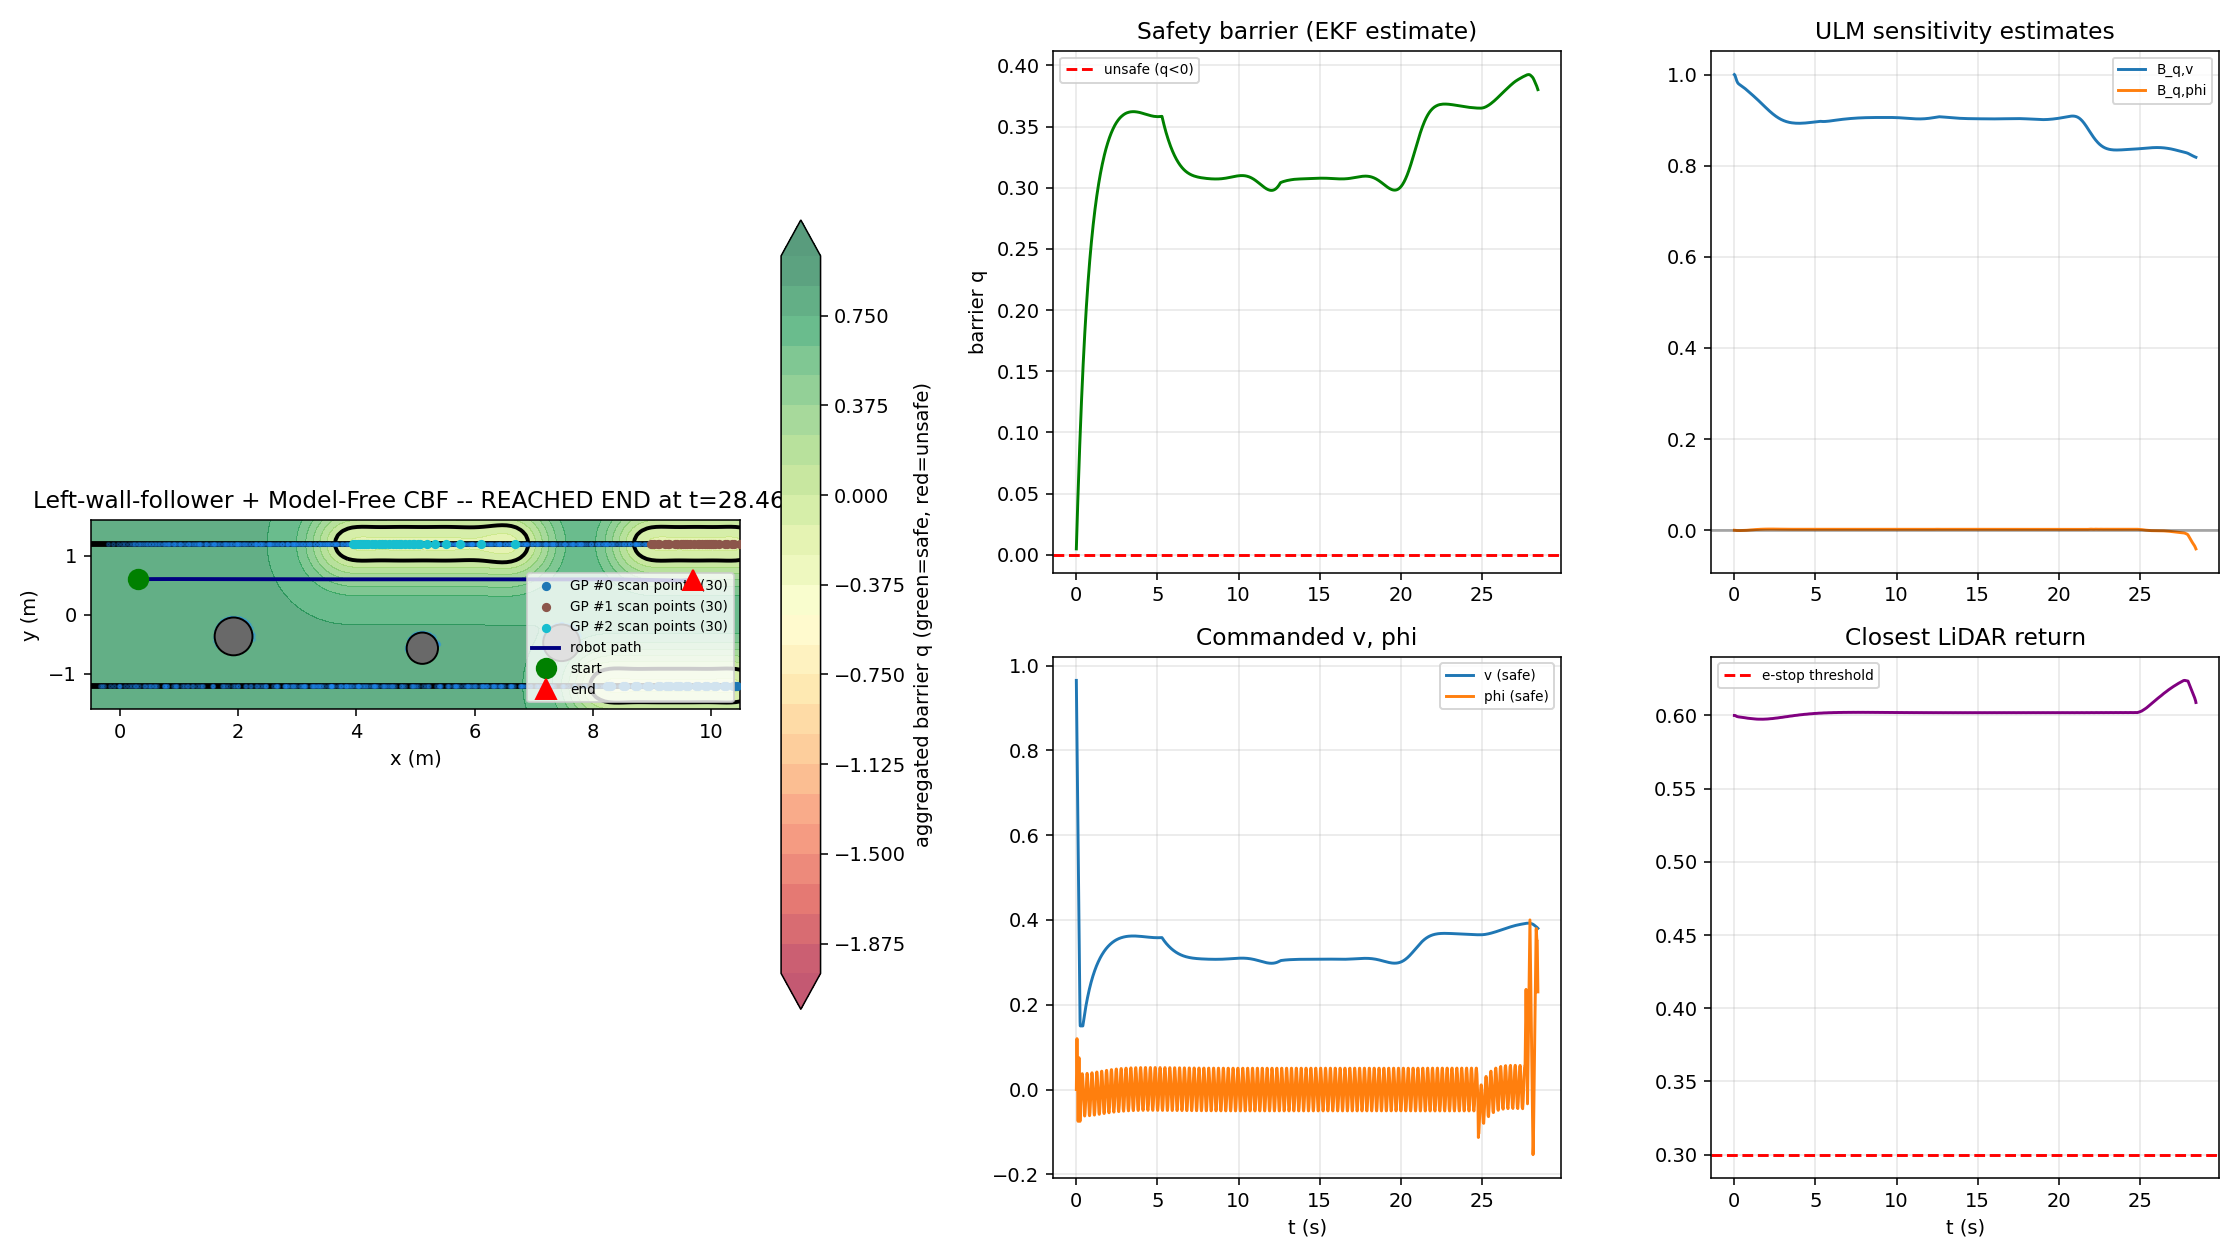
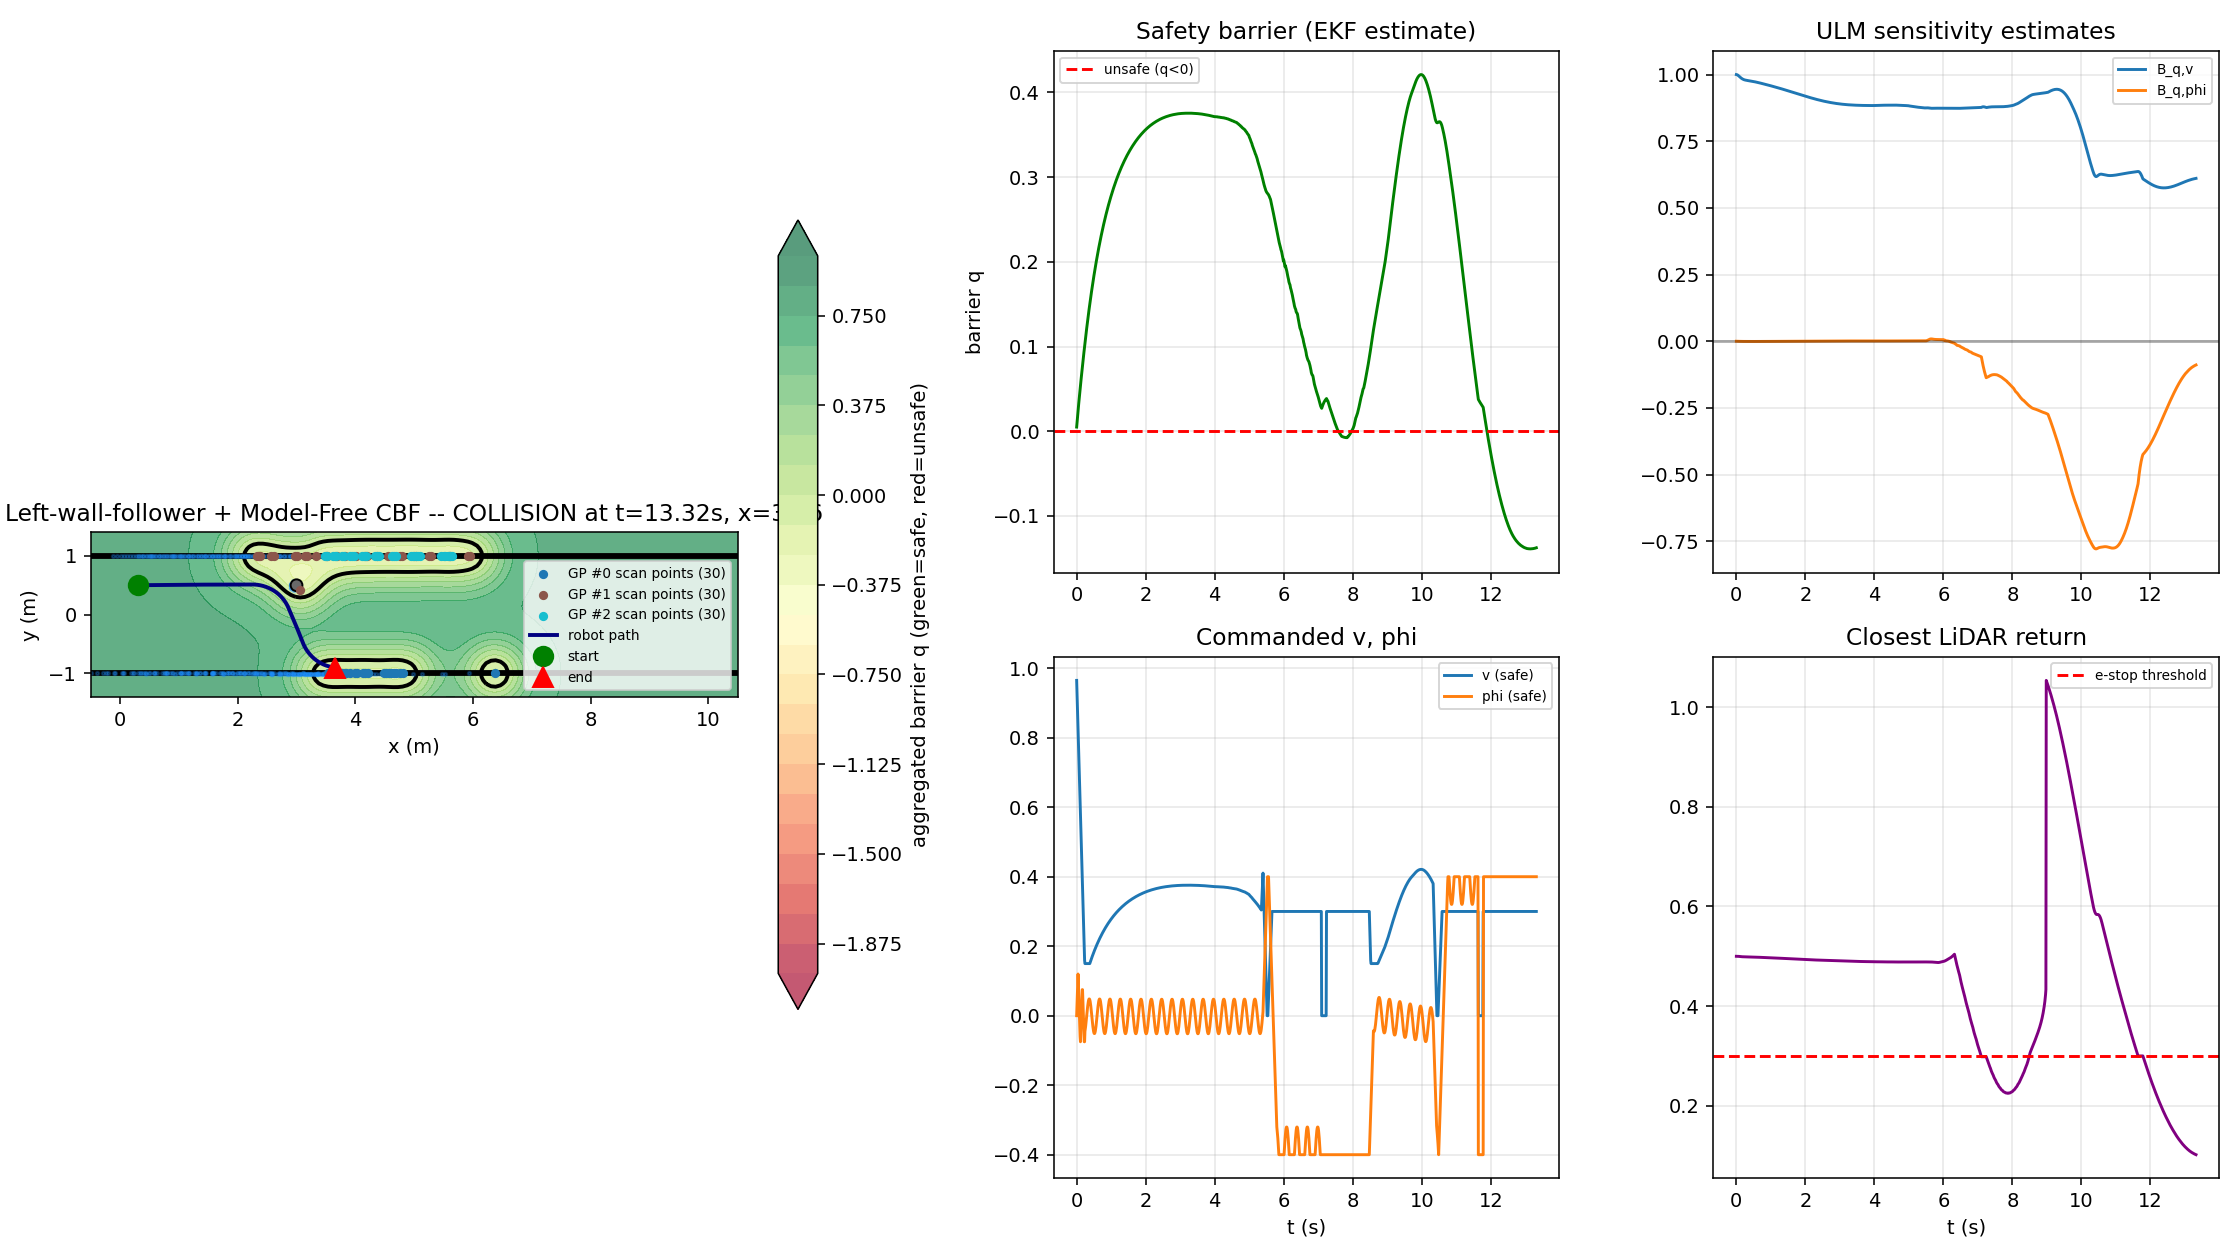
ls .2

diff --git a/auto_drive/cbf_Node_refactored.py b/auto_drive/cbf_Node_refactored.py
@@ -661,7 +661,12 @@ class ControllerNode(Node):
 
         # --- parameters ---
         self.dt = 0.01                 # 100 Hz control loop
-        self.L = 0.33                  # F1TENTH wheelbase (m) -- used ONLY for
+        # Estimated from the real 16in vehicle length (0.65-0.70x length is
+        # a typical wheelbase/length ratio) -- not yet a direct measurement,
+        # replace with the actual wheelbase when known. Was 0.33m, a generic
+        # F1TENTH placeholder inconsistent with a 16in-long chassis (would
+        # leave almost no front/rear overhang).
+        self.L = 0.27                  # wheelbase (m) -- used ONLY for
         # the true-plant / dynamic-extension bookkeeping the vehicle firmware
         # already does; the safety filter itself never uses L (that is the
         # entire point of the model-free approach).
@@ -680,20 +685,29 @@ class ControllerNode(Node):
         self.v_min, self.v_max = 0.0, 1.2
         self.phi_min, self.phi_max = -0.4, 0.4   # F1TENTH steering limits (rad)
         self.r_max = 3.0
-        # length_scale/lambda_0/lambda_1/c_q below were chosen by a staged
-        # grid search (sweep_left_wall_follower.py) against the hallway-with-
-        # obstacles simulation (simulate_left_wall_follower.py), run AFTER
-        # adding the raw_side_bias cross-check to ModelFreeCBF's fallback --
-        # every combination tried before that fix crashed near the same
-        # spot, which is what showed the crash was a structural gap (a
-        # single scalar B_q,phi can't represent two different obstacles'
-        # opposite-signed steering sensitivities), not a tuning problem. This
-        # config was the first to complete the hallway with min_q never
-        # meaningfully negative; see that sweep's output for the full grid.
-        self.length_scale = 0.50      # GP "safety factor" (l): unsafe-set radius around each LiDAR point
+        # length_scale/lambda_0/lambda_1/c_q below were chosen by staged grid
+        # searches (sweep_left_wall_follower.py) against the hallway-with-
+        # obstacles simulation (simulate_left_wall_follower.py). Corridor
+        # width and vehicle size have both been corrected twice now (2.4m
+        # sim -> "1.0m hallway" guess -> actual 2.0m hallway with a real
+        # 8in x 16in vehicle) -- length_scale and left_wall_setpoint below
+        # are rescaled from the 1.0m-corridor sweep's findings by the width
+        # ratio (2.0/1.0 = 2x), not re-verified by a fresh sweep at this
+        # exact scale. See sweep_left_wall_follower.py to re-validate.
+        self.length_scale = 0.20      # GP "safety factor" (l): unsafe-set radius around each LiDAR point
         self.sigma_f = 1.0
-        self.r_buf = 0.15
-
+        # r_buf: the CONTROLLER's belief about where the boundary is,
+        # deliberately more conservative than bare vehicle geometry (that
+        # ground truth lives in simulate_left_wall_follower.py's
+        # ROBOT_RADIUS). Derived from the real vehicle -- 8in wide -> 0.1016m
+        # half-width -- plus a 0.05m margin for LiDAR/EKF noise. Uses the
+        # vehicle's HALF-WIDTH, not half-length or half-diagonal: correct
+        # while driving roughly straight, but an underestimate during a
+        # large heading excursion, when the vehicle presents closer to its
+        # long (16in) dimension to the corridor's width. This session has
+        # repeatedly produced 60-90 deg excursions during avoidance, so this
+        # is a real, unresolved conservatism gap, not a hypothetical one.
+        self.r_buf = 0.1016 + 0.05    # = 0.1516, vehicle half-width + noise margin
         # HOCBF parameters, Section II-C / III-C.
         self.lambda_0 = 2.5
         self.lambda_1 = 2.5
@@ -713,10 +727,16 @@ class ControllerNode(Node):
         self.goal_y = 0.0
 
         # left-hand-rule wall-follower (nominal reference controller)
-        self.left_wall_setpoint = 0.6   # target distance (m) off the left wall
+        # Rescaled for the real 2.0m-wide hallway. Derived the same way as
+        # before: setpoint = half_width / 2 (1.0m half-width / 2 = 0.5m).
+        self.left_wall_setpoint = 0.5   # target distance (m) off the left wall
         self.wall_beam_angle = np.deg2rad(30.0)        # main wall-sensing beam, from forward
         self.wall_beam_separation = np.deg2rad(15.0)   # 2nd beam this far forward of the 1st
-        self.wall_follow_kp = 1.5
+        # Scaled down from the 1.0m-corridor sweep's kp=0.3 by the setpoint
+        # ratio (0.25 -> 0.5, so kp halved) to produce roughly the same
+        # steering response per unit of ACTUAL lateral error, not per unit
+        # of setpoint -- not independently re-verified at this exact scale.
+        self.wall_follow_kp = 0.15
         self.wall_follow_kd = 0.3
         self._wall_follow_prev_error = 0.0
         # The two-beam measurement below assumes heading is roughly aligned
@@ -729,13 +749,26 @@ class ControllerNode(Node):
         # this fed a large, confidently-wrong phi_ref that kept commanding
         # MORE rotation once heading passed ~90 deg off-corridor, spinning
         # the vehicle into a wall instead of recovering. Below, phi_ref's
-        # authority fades linearly to zero across this heading-error range
-        # so a large excursion is handled by the CBF/dither/creep machinery
-        # alone rather than by a reference that's no longer measuring
-        # anything real. This does NOT fix the underlying measurement -- it
-        # just stops a bad measurement from being trusted.
+        # authority fades across this heading-error range so a large
+        # excursion is handled by the CBF/dither/creep machinery alone
+        # rather than by a reference that's no longer measuring anything
+        # real. This does NOT fix the underlying measurement -- it just
+        # stops a bad measurement from being trusted.
+        #
+        # wall_follow_min_authority: the fade above is NOT allowed to reach
+        # zero. Confirmed in simulation that fading all the way out creates
+        # a deadlock of its own: once heading drifts into the fade band
+        # (e.g. ~65 deg), authority drops to ~5-10%, phi_cmd becomes just
+        # symmetric dither noise averaging ~0, theta_dot averages ~0, and
+        # heading simply STOPS recovering -- stuck for 2+ seconds with no
+        # net corrective effort in either direction, drifting sideways
+        # until something else (a wall) forces a reaction. A floor keeps
+        # some minimum turn-back-toward-corridor effort alive even while
+        # trusting the beam measurement less, so heading actually has a
+        # chance to unwind instead of parking.
         self.wall_follow_heading_fade_start = np.deg2rad(30.0)
         self.wall_follow_heading_fade_end = np.deg2rad(70.0)
+        self.wall_follow_min_authority = 0.3
 
         # continuous persistent-excitation dither, module docstring point 4
         self._dither_ampl = 0.05
@@ -856,12 +889,13 @@ class ControllerNode(Node):
         # becomes unreliable here, not just noisy.
         theta_err = abs(self.theta)
         fade_start, fade_end = self.wall_follow_heading_fade_start, self.wall_follow_heading_fade_end
+        min_auth = self.wall_follow_min_authority
         if theta_err <= fade_start:
             authority = 1.0
         elif theta_err >= fade_end:
-            authority = 0.0
+            authority = min_auth
         else:
-            authority = 1.0 - (theta_err - fade_start) / (fade_end - fade_start)
+            authority = 1.0 - (1.0 - min_auth) * (theta_err - fade_start) / (fade_end - fade_start)
         phi_ref *= authority
         return np.array([v_ref, phi_ref])
 

diff --git a/simulate_left_wall_follower.py b/simulate_left_wall_follower.py
@@ -77,12 +77,33 @@ np.random.seed(0)
 # World: a straight hallway with circular obstacles to slalom around
 # ============================================================================
 HALLWAY_LENGTH = 10.0
-HALLWAY_HALF_WIDTH = 1.2     # walls at y = +/- HALLWAY_HALF_WIDTH
-ROBOT_RADIUS = 0.15
-# Obstacles sit ON the nominal left-wall-following line (y = +hw - setpoint =
-# 0.6) so the car is forced to actually deviate from pure wall-following to
-# get around them, then return to hugging the wall afterward.
-OBSTACLES = [(3.0, 0.60, 0.25), (5.5, 0.55, 0.25), (8.0, 0.60, 0.25)]
+# Real hallway is 2.0m wide (was 1.0m, and 2.4m before that -- both earlier
+# guesses). This matters a lot for length_scale/left_wall_setpoint in
+# cbf_Node_refactored.py -- both are spatial and need to track the actual
+# corridor width.
+HALLWAY_HALF_WIDTH = 1.0     # walls at y = +/- HALLWAY_HALF_WIDTH
+
+# Real vehicle: 8in x 16in (0.2032m x 0.4064m). ROBOT_RADIUS is the GROUND
+# TRUTH used by check_collision() below -- it should be the vehicle's actual
+# physical extent, not a safety-margin-padded number (the padding lives in
+# cbf_Node_refactored.py's r_buf instead, which is the CONTROLLER's belief
+# about where the boundary is, deliberately more conservative than reality).
+# Using half-WIDTH (not half-length or half-diagonal) treats the vehicle as
+# a circle sized by its narrow dimension -- correct while it's driving
+# roughly straight (its usual attitude, since this is a corridor-following
+# task) but an UNDERESTIMATE during a large heading excursion, when the
+# vehicle presents closer to its long dimension to the corridor's width.
+# This session has repeatedly produced 60-90 deg excursions during obstacle
+# avoidance, so this is a real, unresolved conservatism gap, not a
+# hypothetical one -- flagging rather than silently picking the more
+# conservative half-diagonal (0.227m), which would also change collision
+# outcomes throughout the rest of this file.
+ROBOT_RADIUS = 0.2032 / 2   # = 0.1016m, vehicle half-width
+
+# Obstacles sit ON the nominal left-wall-following line (y = hw - setpoint)
+# so the car is forced to actually deviate from pure wall-following to get
+# around them, then return to hugging the wall afterward.
+OBSTACLES = [(3.0, 0.50, 0.10)]   # single obstacle -- see if post-avoidance oscillation rings out
 
 N_RAYS = 1080
 ANGLE_MIN, ANGLE_MAX = np.deg2rad(-135.0), np.deg2rad(135.0)
@@ -140,31 +161,32 @@ def check_collision(x, y, obstacles=None):
 class SimNode:
     def __init__(self):
         self.dt = 0.01
-        self.L = 0.33
+        self.L = 0.27   # estimated wheelbase from 16in vehicle length; see cbf_Node_refactored.py
         self.v_min, self.v_max = 0.0, 1.2
         self.phi_min, self.phi_max = -0.4, 0.4
         self.r_max = 3.0
-        self.length_scale = 0.50
+        self.length_scale = 0.20
         self.sigma_f = 1.0
-        self.r_buf = 0.15
+        self.r_buf = 0.1016 + 0.05    # vehicle half-width (8in/2) + noise margin
         self.lambda_0 = 2.5
         self.lambda_1 = 2.5
         self.c_q = 1.1
 
-        self.x, self.y, self.theta, self.v = 0.3, 0.6, 0.0, 0.0
+        self.x, self.y, self.theta, self.v = 0.3, 0.50, 0.0, 0.0
 
         self.u_ref = np.array([1.0, 0.0])
         self.u_prev = np.array([1.0, 0.0])
         self.v_prev = 1.0
 
-        self.left_wall_setpoint = 0.6
+        self.left_wall_setpoint = 0.50
         self.wall_beam_angle = np.deg2rad(30.0)
         self.wall_beam_separation = np.deg2rad(15.0)
-        self.wall_follow_kp = 1.5
+        self.wall_follow_kp = 0.15
         self.wall_follow_kd = 0.3
         self._wall_follow_prev_error = 0.0
         self.wall_follow_heading_fade_start = np.deg2rad(30.0)
         self.wall_follow_heading_fade_end = np.deg2rad(70.0)
+        self.wall_follow_min_authority = 0.3
 
         self._dither_ampl = 0.05
         self._dither_period_steps = 30
@@ -222,12 +244,13 @@ class SimNode:
 
         theta_err = abs(self.theta)
         fade_start, fade_end = self.wall_follow_heading_fade_start, self.wall_follow_heading_fade_end
+        min_auth = self.wall_follow_min_authority
         if theta_err <= fade_start:
             authority = 1.0
         elif theta_err >= fade_end:
-            authority = 0.0
+            authority = min_auth
         else:
-            authority = 1.0 - (theta_err - fade_start) / (fade_end - fade_start)
+            authority = 1.0 - (1.0 - min_auth) * (theta_err - fade_start) / (fade_end - fade_start)
         phi_ref *= authority
         return np.array([v_ref, phi_ref])
 

diff --git a/sweep_left_wall_follower.py b/sweep_left_wall_follower.py
@@ -72,13 +72,16 @@ import simulate_left_wall_follower as S  # noqa: E402
 MAX_STEPS = 3500  # 35 s sim time; if it hasn't finished by then, it's stuck
 
 
-def run_trial(lam, c_q, q_scale=1.0, length_scale=0.40, wall_follow_kp=1.5):
-    """Headless trial. Returns a metrics dict; no plotting."""
+def run_trial(lam, c_q, q_scale=1.0, length_scale=None, wall_follow_kp=1.5):
+    """Headless trial. Returns a metrics dict; no plotting. length_scale
+    defaults to SimNode's own (production) value if not given, resolved at
+    call time so it tracks whatever that default currently is."""
     sim = S.SimNode()
     sim.cbf.lambda_0 = lam
     sim.cbf.lambda_1 = lam
     sim.cbf.c_q = c_q
-    sim.cbf.length_scale = length_scale
+    if length_scale is not None:
+        sim.cbf.length_scale = length_scale
     sim.safety_ekf.Q[3, 3] = 2e-4 * q_scale
     sim.safety_ekf.Q[4, 4] = 2e-4 * q_scale
     sim.wall_follow_kp = wall_follow_kp
@@ -115,7 +118,7 @@ def run_trial(lam, c_q, q_scale=1.0, length_scale=0.40, wall_follow_kp=1.5):
             reached_end = True
             break
 
-    return dict(lam=lam, c_q=c_q, q_scale=q_scale, length_scale=length_scale,
+    return dict(lam=lam, c_q=c_q, q_scale=q_scale, length_scale=sim.cbf.length_scale,
                 wall_follow_kp=wall_follow_kp,
                 reached_end=reached_end, collided=collided, collision_kind=collision_kind,
                 final_x=r['x'], min_q=min_q, max_infeasible_run=max_infeasible_run,
@@ -171,7 +174,10 @@ if __name__ == '__main__':
     print(f"\nStage 2 winner: q_scale={best2['q_scale']}")
 
     # ---- Stage 3: length_scale (safety factor) ----
-    length_scales = [0.30, 0.40, 0.50, 0.60]
+    # Range rescaled for the real ~1.0m-wide hallway (was 0.30-0.60, sized
+    # for the old 2.4m-wide simulated corridor -- 0.5-0.6m of GP decay
+    # radius in a 1.0m corridor covers nearly the whole cross-section).
+    length_scales = [0.10, 0.15, 0.20, 0.25, 0.30]
     configs = [dict(lam=best1['lam'], c_q=best1['c_q'], q_scale=best2['q_scale'],
                      length_scale=ls, wall_follow_kp=best0['wall_follow_kp']) for ls in length_scales]
     r3 = run_grid(configs, "Stage 3: length_scale")

diff --git a/randomize_hallway.py b/randomize_hallway.py
@@ -27,16 +27,22 @@ import simulate_left_wall_follower as S  # noqa: E402 (stubs installed inside th
 MAX_STEPS = 3500
 
 
-def random_obstacles(rng, n=3, hallway_length=S.HALLWAY_LENGTH, half_width=S.HALLWAY_HALF_WIDTH):
+def random_obstacles(rng, n=3, hallway_length=None, half_width=None):
     """n obstacles spread along the corridor with jittered spacing, each at a
     random lateral offset and radius -- unlike the fixed test layout, NOT
-    pinned to the wall-follower's setpoint line."""
+    pinned to the wall-follower's setpoint line. Defaults resolve against
+    S.HALLWAY_LENGTH/HALF_WIDTH at CALL time (not import time), so changing
+    those module constants (e.g. to match a different real hallway) takes
+    effect here too. y/radius ranges scale with half_width rather than
+    being hardcoded, so this stays sensible if the corridor width changes."""
+    hallway_length = S.HALLWAY_LENGTH if hallway_length is None else hallway_length
+    half_width = S.HALLWAY_HALF_WIDTH if half_width is None else half_width
     obstacles = []
     for i in range(n):
         base_x = hallway_length * (i + 1) / (n + 1)
         x = base_x + rng.uniform(-0.7, 0.7)
-        y = rng.uniform(-0.7, 0.7)
-        r = rng.uniform(0.20, 0.35)
+        y = rng.uniform(-0.7 * half_width, 0.7 * half_width)
+        r = rng.uniform(0.15, 0.30) * half_width
         obstacles.append((float(x), float(y), float(r)))
     return obstacles
 
